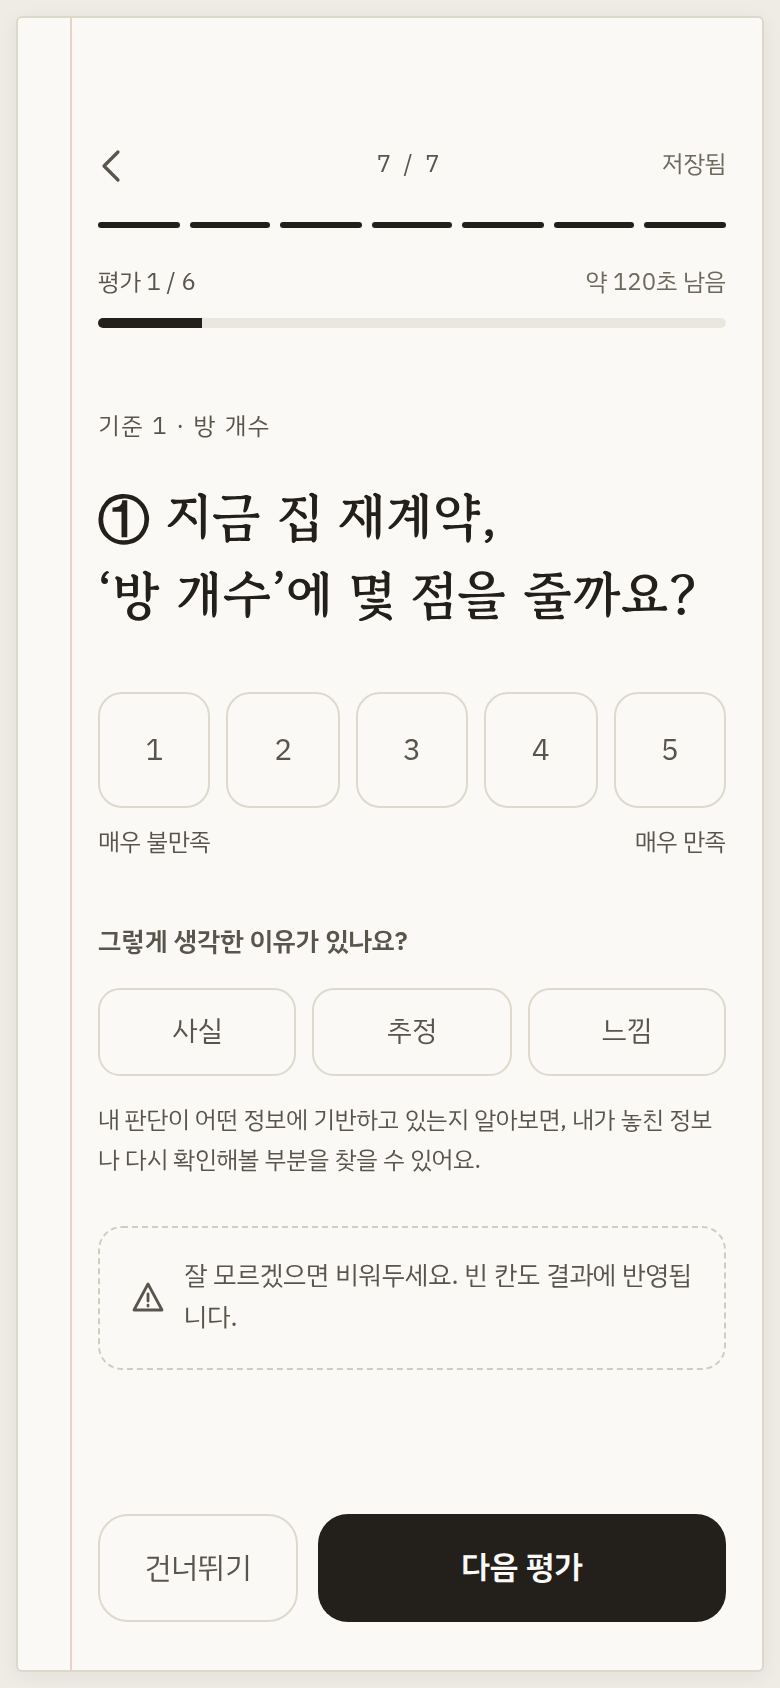
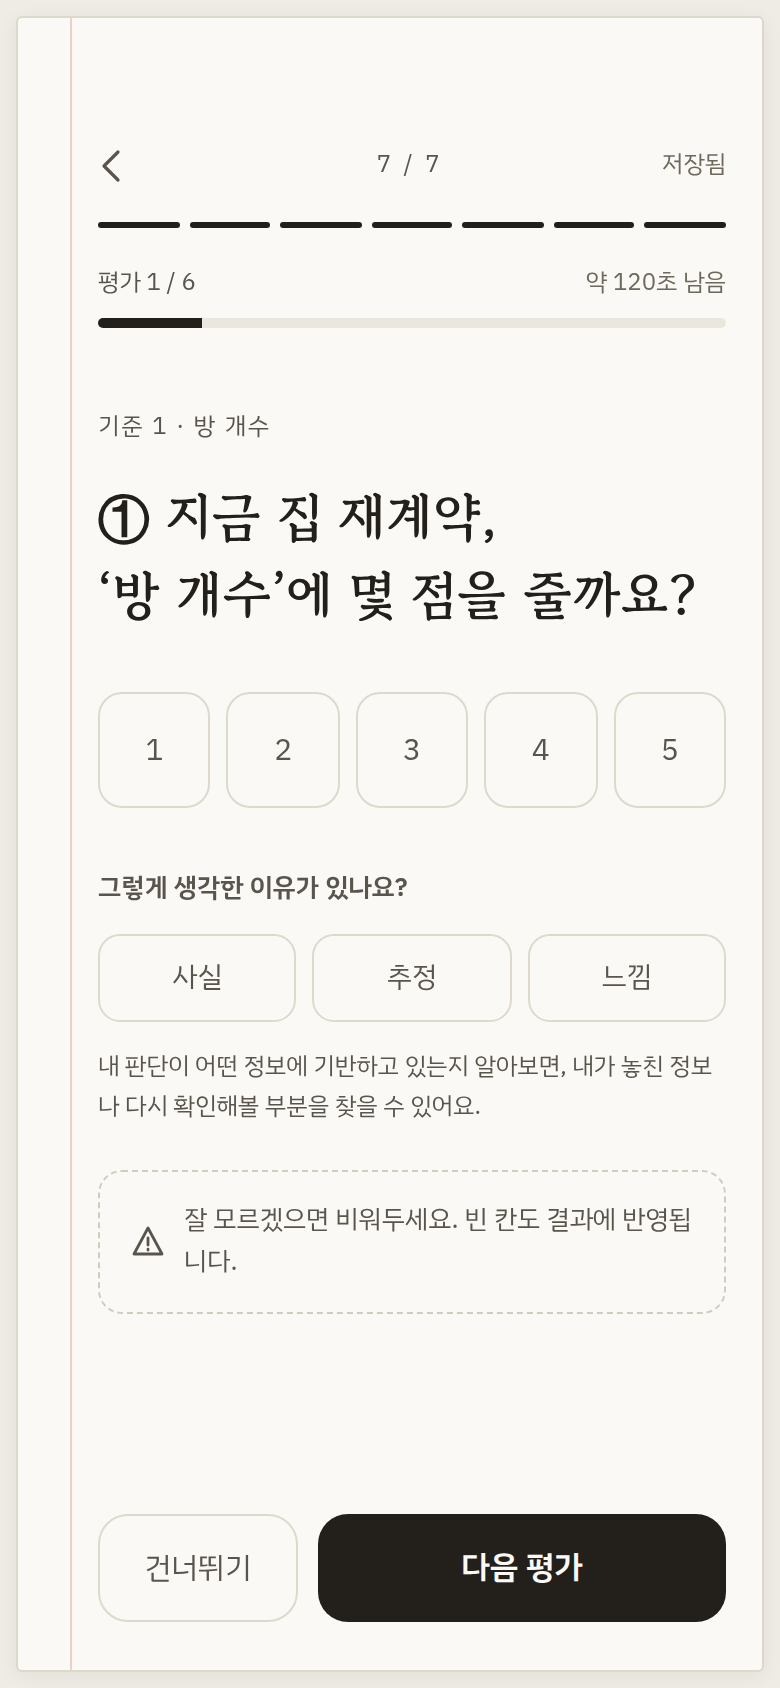
fix(commit): 알림 예약이 실패해도 '기록하고 나가기'가 홈으로 간다
네이티브에서 로컬 알림 권한 요청이나 예약이 예외를 던지면 finish()가 거기서
멈추고 saving이 true로 남아 버튼이 죽었다. 저장 → 이동을 먼저 하고 알림은
기다리지 않으며, scheduleReview는 어떤 경우에도 던지지 않는다.

평가 점수에서 '매우 불만족~매우 만족' 말을 빼고 숫자만 남긴다 — 기준마다
'만족'이 어울리지 않는 경우가 많아 뜻이 애매했다.

Claude-Session: https://claude.ai/code/session_01DfCYJNm8fnv5qvTtHT6e4k

Changed region(s): [[0.1231, 0.4929, 0.9231, 0.8009], [0.7077, 0.7085, 0.8923, 0.7701], [0.8308, 0.4929, 0.9231, 0.5237]]

diff --git a/src/platform/notify.ts b/src/platform/notify.ts
@@ -55,22 +55,27 @@ export async function scheduleReview(
   const body = question.trim() === '' ? '그때 적어둔 결정을 다시 볼 시간이에요.' : question
 
   const plugin = await nativePlugin()
-  if (plugin) {
-    const permission = await plugin.requestPermissions()
-    if (permission.display !== 'granted') return 'denied'
-    await plugin.schedule({
-      notifications: [
-        { id: notificationId(decisionId), title: '한 달 전 그 결정, 지금은 어때요?', body, schedule: { at } },
-      ],
-    })
-    return 'scheduled'
-  }
+  // 권한 거절·정확한 알람 제한 등으로 플러그인이 던져도 호출한 쪽(확정 화면)을 막으면 안 된다.
+  try {
+    if (plugin) {
+      const permission = await plugin.requestPermissions()
+      if (permission.display !== 'granted') return 'denied'
+      await plugin.schedule({
+        notifications: [
+          { id: notificationId(decisionId), title: '한 달 전 그 결정, 지금은 어때요?', body, schedule: { at } },
+        ],
+      })
+      return 'scheduled'
+    }
 
-  // 웹: 브라우저를 계속 열어둘 수는 없으므로 권한만 받아두고
-  // 실제 안내는 홈 화면의 "회고 D-7" 배지가 맡는다.
-  if (typeof Notification === 'undefined') return 'unsupported'
-  const permission = await Notification.requestPermission()
-  return permission === 'granted' ? 'scheduled' : 'denied'
+    // 웹: 브라우저를 계속 열어둘 수는 없으므로 권한만 받아두고
+    // 실제 안내는 홈 화면의 "회고 D-7" 배지가 맡는다.
+    if (typeof Notification === 'undefined') return 'unsupported'
+    const permission = await Notification.requestPermission()
+    return permission === 'granted' ? 'scheduled' : 'denied'
+  } catch {
+    return 'unsupported'
+  }
 }
 
 export async function cancelReview(decisionId: string): Promise<void> {

diff --git a/src/platform/notify.test.ts b/src/platform/notify.test.ts
@@ -1,5 +1,26 @@
-import { describe, expect, it } from 'vitest'
-import { notificationId } from './notify'
+import { afterEach, describe, expect, it, vi } from 'vitest'
+import { notificationId, scheduleReview } from './notify'
+
+describe('scheduleReview', () => {
+  afterEach(() => {
+    vi.doUnmock('@capacitor/local-notifications')
+    delete (globalThis as { Capacitor?: unknown }).Capacitor
+  })
+
+  it('플러그인이 던져도 호출한 쪽으로 예외를 넘기지 않는다', async () => {
+    ;(globalThis as { Capacitor?: unknown }).Capacitor = { isNativePlatform: () => true }
+    vi.doMock('@capacitor/local-notifications', () => ({
+      LocalNotifications: {
+        requestPermissions: async () => ({ display: 'granted' }),
+        schedule: async () => {
+          throw new Error('exact alarm not permitted')
+        },
+        cancel: async () => undefined,
+      },
+    }))
+    await expect(scheduleReview('d1', '이사 갈까', new Date())).resolves.toBe('unsupported')
+  })
+})
 
 describe('notificationId', () => {
   it('같은 결정은 같은 알림 id를 쓴다', () => {

diff --git a/src/screens/Evaluate.tsx b/src/screens/Evaluate.tsx
@@ -11,7 +11,6 @@ import { useDecision } from '@/app/useDecision'
 import { flushPendingSave } from '@/store/decisions'
 import { prevPath, stepNumber } from '@/store/factory'
 
-const SCORE_LABELS = ['매우 불만족', '불만족', '보통', '만족', '매우 만족'] as const
 const EVIDENCES: Evidence[] = ['fact', 'estimate', 'feeling']
 
 /** 한 칸당 대략 이만큼 걸린다고 보고 남은 시간을 어림한다. */
@@ -140,11 +139,7 @@ export function Evaluate() {
       </div>
 
       <div className="m-lift" style={{ marginTop: 30, ...delay(0, 'm-lift', 420) }}>
-        <Score5 value={score?.value ?? null} onChange={setScore} labels={SCORE_LABELS} />
-      </div>
-      <div className="scale5__ends m-lift" style={delay(0, 'm-lift', 480)}>
-        <span>{SCORE_LABELS[0]}</span>
-        <span>{SCORE_LABELS[4]}</span>
+        <Score5 value={score?.value ?? null} onChange={setScore} />
       </div>
 
       <div className="m-lift" style={{ marginTop: 30, ...delay(0, 'm-lift', 540) }}>

diff --git a/src/components/Controls.tsx b/src/components/Controls.tsx
@@ -104,11 +104,9 @@ export function Scale5({
 export function Score5({
   value,
   onChange,
-  labels,
 }: {
   value: number | null
   onChange: (v: number) => void
-  labels: readonly string[]
 }) {
   return (
     <div className="score5" role="radiogroup" aria-label="이 기준에서의 점수">
@@ -118,7 +116,7 @@ export function Score5({
           type="button"
           role="radio"
           aria-checked={value === n}
-          aria-label={labels[n - 1]}
+          aria-label={`${n}점`}
           className={`score5__cell${value === n ? ' is-picked' : ''}`}
           onClick={() => onChange(n)}
         >

diff --git a/src/screens/Commit.tsx b/src/screens/Commit.tsx
@@ -85,9 +85,13 @@ export function Commit() {
     if (saving) return
     setSaving(true)
     patchCommit({})
-    if (scheduled) await scheduleReview(decision!.id, decision!.question, new Date(dueAt))
-    await flushPendingSave()
-    navigate('/')
+    try {
+      await flushPendingSave()
+    } finally {
+      navigate('/')
+    }
+    // 알림은 기록이 끝난 뒤에. 권한 창이 늦게 뜨거나 실패해도 나가는 길을 막지 않는다.
+    if (scheduled) void scheduleReview(decision!.id, decision!.question, new Date(dueAt))
   }
 
   return (
